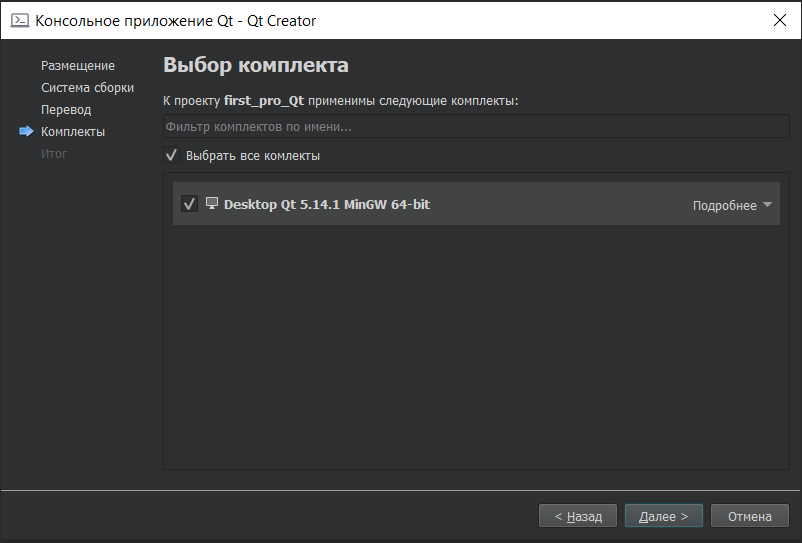
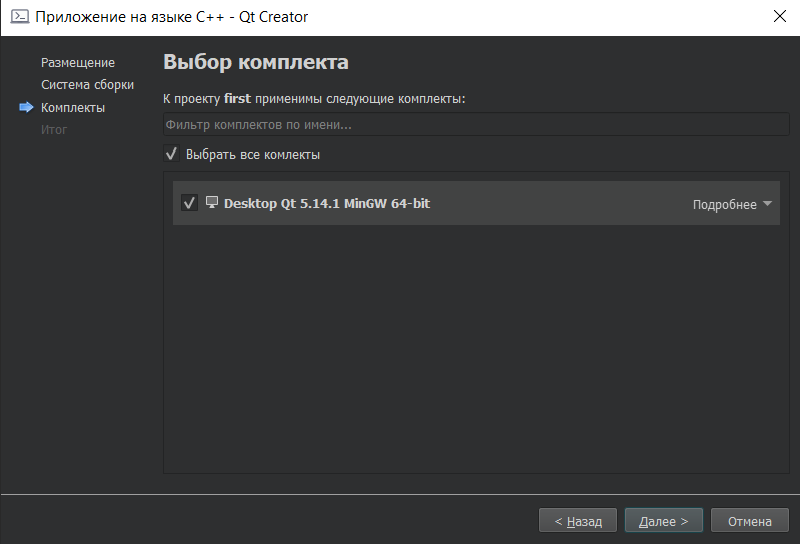
Lab_7_task_31

diff --git a/31_Search_for_exits_from_the_maze/main.cpp b/31_Search_for_exits_from_the_maze/main.cpp
@@ -26,14 +26,12 @@ void Maze_Exits(const std::string maze[], int row, int col, int arr_size)
     else
     {
         maze_way[row][col] = 1;
+        counter++;
         if (maze[row].at(col) != ' ')
         {
             std::cout << maze[row].at(col) << " ";
-            counter++;
             chek = true;
         }
-        else {
-            counter++;
             if ((row + 1) < 25 && col < 27 && maze[row + 1].at(col) != '#' && maze_way[row + 1][col] != 1)
             {
                 Maze_Exits(maze, (row + 1), col, 25);
@@ -51,7 +49,6 @@ void Maze_Exits(const std::string maze[], int row, int col, int arr_size)
                 Maze_Exits(maze, row, (col + 1), 25);
             }
             counter--;
-        }
         if (counter==0)
         {
             if (!chek) {
@@ -61,6 +58,7 @@ void Maze_Exits(const std::string maze[], int row, int col, int arr_size)
             {
                 delete[] maze_way[i];
             }
+            delete[] maze_way;
         }
     }
 }

diff --git a/Lab_7/Отчёт по лабораторной работе № 7 по дисциплине Программирование.md b/Lab_7/Отчёт по лабораторной работе № 7 по дисциплине Программирование.md
@@ -8,7 +8,7 @@
 ### Отчёт по лабораторной работе № 7<br/> по дисциплине "Программирование"
 <br/>
 
-студента 1 курса группы 191(2)  
+студента 1 курса группы ПИ-б-о-191(2)  
 Михерский Михаил Ростиславович
 направления подготовки 09.03.04 "Программная инженерия"  
 <br/>
@@ -27,7 +27,7 @@
 **Цель:** изучить основные возможности создания и отладки программ в IDE Qt Creator.
 
 #### Ход работы
-1.Для создания проекта выбрать **Файл->Создать файл или проект...**, так же можно воспользоваться сочетание клавиш **Ctrl+N**, далее в открывшемся окне - **Мастер настройки проекта** в левой колонке **Проект**, выбрать **Приложение**, в колонке справа выбрать **Консольное приложение Qt**, нажать **Выбрать...** .
+1.Для создания проекта выбрать **Файл->Создать файл или проект...**, так же можно воспользоваться сочетание клавиш **Ctrl+N**, далее в открывшемся окне - **Мастер настройки проекта** в левой колонке **Проект**, выбрать **Проект без Qt**, в колонке справа выбрать **Приложение на языке С++**, нажать **Выбрать...** .
 
 ![](https://raw.githubusercontent.com/M-850/Task.1_1/master/Lab_7/Мастер_настройки_проектов_1_1.png)
 
@@ -45,23 +45,17 @@
 
 *Рис.1.3 Выбор системы сборки*
 
-Далее откроется окно **Файл переводов**, если не планируете переводить интерфейс можно всё оставить по умолчанию, после чего нажать кнопку **Далее**.
-
-![](https://raw.githubusercontent.com/M-850/Task.1_1/master/Lab_7/Файл_переводов_рис_1_4.png)
-
-*Рис.1.4 Файл переводов*
-
 После этого откроется окно **Выбор комплекта**, в нём нужно выбрать набор компиляторов, который будет использоваться для сборки проекта.
 
 ![](https://raw.githubusercontent.com/M-850/Task.1_1/master/Lab_7/Выбор_компиляторов_рис_1_5.png)
 
-*Рис.1.5 Выбор комплекта*
+*Рис.1.4 Выбор комплекта*
 
 Последнее окно **Управление проектом**, здесь всё оставить по умолчанию и нажать **Завершить**.
 
 ![](https://raw.githubusercontent.com/M-850/Task.1_1/master/Lab_7/Управление%20проектом_рис_1_6.png)
 
-*Рис.1.6 Управление проектом*
+*Рис.1.5 Управление проектом*
 
 Консольное приложение С++ в IDE Qt Creator без использования компонентов Qt создано!
 
@@ -69,13 +63,13 @@
 
 ![](https://raw.githubusercontent.com/M-850/Task.1_1/master/Lab_7/Цветовая_схема_2_1.png)
 
-Рис.2.1 Изменение цветовой схемы
+*Рис.2.1 Изменение цветовой схемы*
 
 В появившемся окне  выбрать **Среда** далее справа  **Интерфейс**. Между **Тема:** и **Текущая тема:** в выплывающее меню, выбрать нужную тему. Перезапустить среду.
 
-![](https://raw.githubusercontent.com/M-850/Task.1_1/master/Lab_7/Цветовая_схема_2_1.png)
+![](https://raw.githubusercontent.com/M-850/Task.1_1/master/Lab_7/Цветовая%20схема_2_2.png)
 
-Рис.2.2 Изменение цветовой схемы
+*Рис.2.2 Изменение цветовой схемы*
 
 3.Чтобы закомментировать/раскомментировать блок кода необходимо выделить нужный для комментирования/раскомментирования участок кода и использовать сочетание клавиш **Ctrl+/**, либо выбрать в главном меню **Правка -> Дополнительно -> Закомментировать/Раскомментировать **.
 
@@ -109,7 +103,7 @@
 
 *Рис.8 Установка точки останова*
 
-9.В 5-й строке  переменная i содержит 0(в переменной находится "**мусор**" т. к. ей еще не присвоено значение).В 6-й строке в переменной d находится значение 8.4218350939595551e-317 (в переменной находится "**мусор**" т. к. ей еще не присвоено значение).
+9.В 5-й строке  переменная i содержит 0(в переменной находится "**мусор**" т. к. ей еще не присвоено значение).В 6-й строке в переменной d находится значение 8.4218350939595551e-317 (в переменной находится "**мусор**" т. к. ей еще не присвоено значение), при каждом новом запуску значения могут меняться, в отличие от среды MSVS, где значения в режиме отладки остаются постоянными.
 
 ![](https://raw.githubusercontent.com/M-850/Task.1_1/master/Lab_7/Значение_d_i_до_инациализации_9.png)
 
